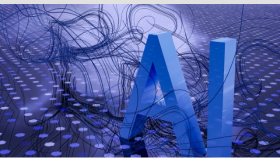
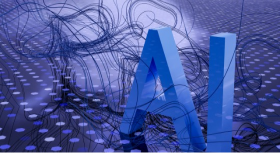
actualizando

diff --git a/front/src/pages/DocumentacionLegalAccesibilidad.jsx b/front/src/pages/DocumentacionLegalAccesibilidad.jsx
@@ -1,59 +1,15 @@
 import React from 'react';
-import "./DocumentacionLegalAccesibilidad.css"
+import next from "../../public/next.jpg";
+import "./img.scss"
 
 const DocumentacionLegalAccesibilidad = () => {
-  return <p className='texto'>
-<h1>Documentación Legal y Accesibilidad</h1>
-<br />
-<h2>Aviso Legal</h2>
-<br />
-<h3>1. Información General</h3>
-<br />
-La presente aplicación web es operada por Seniority. Al acceder y utilizar esta aplicación, el usuario acepta cumplir con los siguientes términos y condiciones de uso.
-<br /><br />
-<h3>2. Propiedad Intelectual</h3>
-<br />
-Todo el contenido incluido en esta aplicación, como textos, gráficos, logotipos, iconos, imágenes y software, es propiedad de Seniority o de sus proveedores de contenido y está protegido por las leyes internacionales de derechos de autor. La compilación del contenido de esta aplicación es propiedad exclusiva de Seniority.
-<br /><br />
-<h3>3. Uso de la Aplicación</h3>
-<br />
-La aplicación de Seniority está destinada a su uso personal y no comercial. No se permite modificar, copiar, distribuir, transmitir, exhibir, realizar, reproducir, publicar, licenciar, crear trabajos derivados, transferir o vender ningún contenido, software, productos o servicios obtenidos de esta aplicación sin el consentimiento previo por escrito de Seniority.
-<br /><br />
-<h3>4. Limitación de Responsabilidad</h3>
-<br />
-Seniority no se responsabiliza por daños directos, indirectos, incidentales, consecuentes, especiales o punitivos que resulten del uso o la imposibilidad de uso de esta aplicación. Seniority se esfuerza por asegurar que la información en esta aplicación sea precisa y completa, pero no garantiza que dicha información esté libre de errores.
-<br /><br />
-<h3>5. Privacidad</h3>
-
-El uso de esta aplicación también se rige por nuestra Política de Privacidad, que se puede consultar en el siguiente [enlace a la Política de Privacidad].
-<br /><br />
-<h3>Compromiso con la Accesibilidad</h3>
-<br />
-En Seniority, nos comprometemos a proporcionar una experiencia web accesible para todos nuestros usuarios, incluidos aquellos con discapacidades. Nuestro objetivo es asegurar que todos puedan acceder y utilizar nuestra aplicación de manera eficiente.
-<br /><br />
-<h3>1. Conformidad con Estándares</h3>
-<br />
-Nos esforzamos por cumplir con las directrices de accesibilidad al contenido web (WCAG) 2.1 nivel AA. Estas directrices ayudan a que el contenido web sea más accesible para una amplia gama de personas con discapacidades, incluyendo la ceguera y baja visión, sordera y pérdida de audición, discapacidades del aprendizaje, limitaciones cognitivas, movilidad limitada, fotosensibilidad y combinaciones de estas.
-<br /><br />
-<h3>2. Mejora Continua</h3>
-<br />
-Reconocemos que la accesibilidad es un esfuerzo continuo y estamos comprometidos con la mejora continua. Realizamos revisiones regulares y actualizaciones a nuestra aplicación para mejorar la accesibilidad y nos esforzamos por implementar la retroalimentación recibida de nuestros usuarios.
-<br /><br />
-<h3>3. Características de Accesibilidad</h3>
-<br />
-Texto Alternativo: Todas las imágenes y otros elementos no textuales en nuestra aplicación incluyen texto alternativo descriptivo.
-Navegación por Teclado: Aseguramos que la navegación por nuestra aplicación pueda realizarse completamente mediante un teclado.
-Compatibilidad con Lector de Pantalla: Nos aseguramos de que nuestra aplicación sea compatible con los lectores de pantalla más comunes.
-Contraste de Colores: Utilizamos combinaciones de colores que proporcionan un contraste suficiente para usuarios con discapacidad visual.
-<br />
-<br />
-<h3>4. Contacto y Asistencia</h3>
-<br />
-Si encuentra alguna barrera de accesibilidad en nuestra aplicación, le pedimos que nos lo haga saber para que podamos tomar las medidas correctivas necesarias. Puede contactarnos en [dirección de correo electrónico] o llamando al [número de teléfono].
-
-Agradecemos su paciencia y comprensión mientras trabajamos continuamente para mejorar la accesibilidad de nuestra aplicación.
-
-  </p>;
+  return (
+    <>
+        <div>
+          <img src={next} alt="" />      
+        </div>
+    </>
+    );
 };
 
 export default DocumentacionLegalAccesibilidad;

diff --git a/front/src/pages/SilverEconomy.jsx b/front/src/pages/SilverEconomy.jsx
@@ -1,38 +1,17 @@
 import Footer2 from "../componentes/Footer/Footer2";
 
 import React from 'react';
-import './SilverEconomy.css'; 
+import next from "../../public/next.jpg";
+import "./img.scss"
+
 
 const SilverEconomy = () => {
-  const content = [
-    {
-      text: "La 'silver economy' se refiere a todas las actividades económicas relacionadas con las personas mayores de 50 años. Este grupo demográfico está creciendo rápidamente y tiene un poder adquisitivo significativo, lo que lo convierte en un segmento de mercado importante.",
-      img: '/silver1.jpg', 
-    },
-    {
-      text: "La economía plateada abarca una variedad de sectores, incluidos la salud, el bienestar, la tecnología, los viajes y el ocio. Las empresas están desarrollando productos y servicios específicamente dirigidos a satisfacer las necesidades y preferencias de los adultos mayores.",
-      img: '/silver2.jpg', 
-    },
-    {
-      text: "Invertir en la silver economy no solo beneficia a las empresas, sino que también puede tener un impacto positivo en la sociedad al mejorar la calidad de vida de las personas mayores. Esto incluye la creación de empleos y el fomento de un envejecimiento activo y saludable.",
-      img: '/silver3.jpg', 
-    },
-  ];
-
   return (
-    <div className="silver-economy">
-      {content.map((item, index) => (
-        <div key={index} className={`section ${index === 1 ? 'left-text' : 'right-text'}`}>
-          <div className="text">
-            <p><b>{item.text}</b></p>
-          </div>
-          <div className="image">
-            <img src={item.img} alt="Silver Economy" />
-          </div>
+    <>
+        <div>
+          <img src={next} alt="" />      
         </div>
-      ))}
-    </div>
-  );
-};
-
+    </>
+    );
+}
 export default SilverEconomy;

diff --git a/front/src/componentes/NavBar/NavBar.jsx b/front/src/componentes/NavBar/NavBar.jsx
@@ -75,7 +75,7 @@ const NavBar = () => {
                 <Link className="dropdown__item" to="/publicaciones">Publicaciones</Link>
                 <Link className="dropdown__item" to="/silver-economy">Silver Economy</Link>
                 <Link className="dropdown__item" to="/recursos">Cursos y Talleres</Link>
-                <Link className="dropdown__item" to="/plantillas-herramientas">Plantillas y Herramientas</Link>
+           
               </div>
             )}
           </div>

diff --git a/front/src/pages/NuestrosExpertos.jsx b/front/src/pages/NuestrosExpertos.jsx
@@ -1,11 +1,17 @@
 import React from 'react';
-import './NuestrosExpertos.css'; 
+import next from "../../public/next.jpg";
+import "./img.scss"
 
 const NuestrosExpertos = () => {
 
+  return (
+    <>
+      <div>
+        <img src={next} alt="" />      
+      </div>
+    </>
+  )
 
-    return 
-  <img src="./proximamente.png" alt="" />
 };
 
 export default NuestrosExpertos;

diff --git a/front/src/pages/NuestrosExpertos.css b/front/src/pages/NuestrosExpertos.css
@@ -1,4 +1,4 @@
-
+/*
 .silver-economy {
   background-color: white;
   color: black;
@@ -48,10 +48,17 @@
 .image img {
   width: 100%;
   height: auto;
-  border: 2px solid #00008B; /* Azul oscuro */
+  border: 2px solid #00008B;  Azul oscuro 
 }
 
 .centrar{
 
  text-align: center;
+}
+*/
+
+img{
+  width: 50%;
+  margin-left: 25%;
+  margin-top: 5%;
 }

diff --git a/front/src/pages/HireExperts.jsx b/front/src/pages/HireExperts.jsx
@@ -1,7 +1,15 @@
 import React from 'react';
+import next from "../../public/next.jpg";
+import "./img.scss"
 
 const HireExperts = () => {
-  return <h1>Contratar Expertos</h1>;
+  return (
+    <>
+        <div>
+          <img src={next} alt="" />      
+        </div>
+    </>
+    );
 };
 
 export default HireExperts;

diff --git a/front/src/pages/Publicaciones.jsx b/front/src/pages/Publicaciones.jsx
@@ -1,7 +1,15 @@
 import React from 'react';
+import next from "../../public/next.jpg";
+import "./img.scss"
 
 const Publicaciones = () => {
-  return <h1>Publicaciones</h1>;
+  return (
+    <>
+        <div>
+          <img src={next} alt="" />      
+        </div>
+    </>
+    );
 };
 
 export default Publicaciones;

diff --git a/front/src/pages/home/Home.jsx b/front/src/pages/home/Home.jsx
@@ -1,6 +1,6 @@
 import "./Home.scss"
 
-import banner from "../../../public/banner_inicio.png"
+import banner from "../../../public/banner_inicio_recorted.png"
 import telephone from "../../../public/lift_to_talk.png"
 import arrows from "../../../public/arrow_split.png"
 import breaklink from "../../../public/link.png"

diff --git a/front/src/pages/Charlas.jsx b/front/src/pages/Charlas.jsx
@@ -1,7 +1,15 @@
 import React from 'react';
+import next from "../../public/next.jpg";
+import "./img.scss"
 
 const Charlas = () => {
-  return <h1>Charlas</h1>;
+  return (
+    <>
+        <div>
+          <img src={next} alt="" />      
+        </div>
+    </>
+    );
 };
 
 export default Charlas;

diff --git a/front/src/pages/Biblioteca.jsx b/front/src/pages/Biblioteca.jsx
@@ -1,7 +1,16 @@
 import React from 'react';
+import next from "../../public/next.jpg";
+import "./img.scss"
+
 
 const Biblioteca = () => {
-  return <h1>Biblioteca</h1>;
+  return (
+  <>
+      <div>
+        <img src={next} alt="" />      
+      </div>
+  </>
+  );
 };
 
 export default Biblioteca;

diff --git a/front/src/pages/Libros.jsx b/front/src/pages/Libros.jsx
@@ -1,7 +1,15 @@
 import React from 'react';
+import next from "../../public/next.jpg";
+import "./img.scss"
 
 const Libros = () => {
-  return <h1>Libros</h1>;
+  return (
+    <>
+        <div>
+          <img src={next} alt="" />      
+        </div>
+    </>
+    );
 };
 
 export default Libros;

diff --git a/front/src/pages/Guias.jsx b/front/src/pages/Guias.jsx
@@ -1,7 +1,15 @@
 import React from 'react';
+import next from "../../public/next.jpg";
+import "./img.scss"
 
 const Guias = () => {
-  return <h1>Guias</h1>;
+  return (
+    <>
+        <div>
+          <img src={next} alt="" />      
+        </div>
+    </>
+    );
 };
 
 export default Guias;
